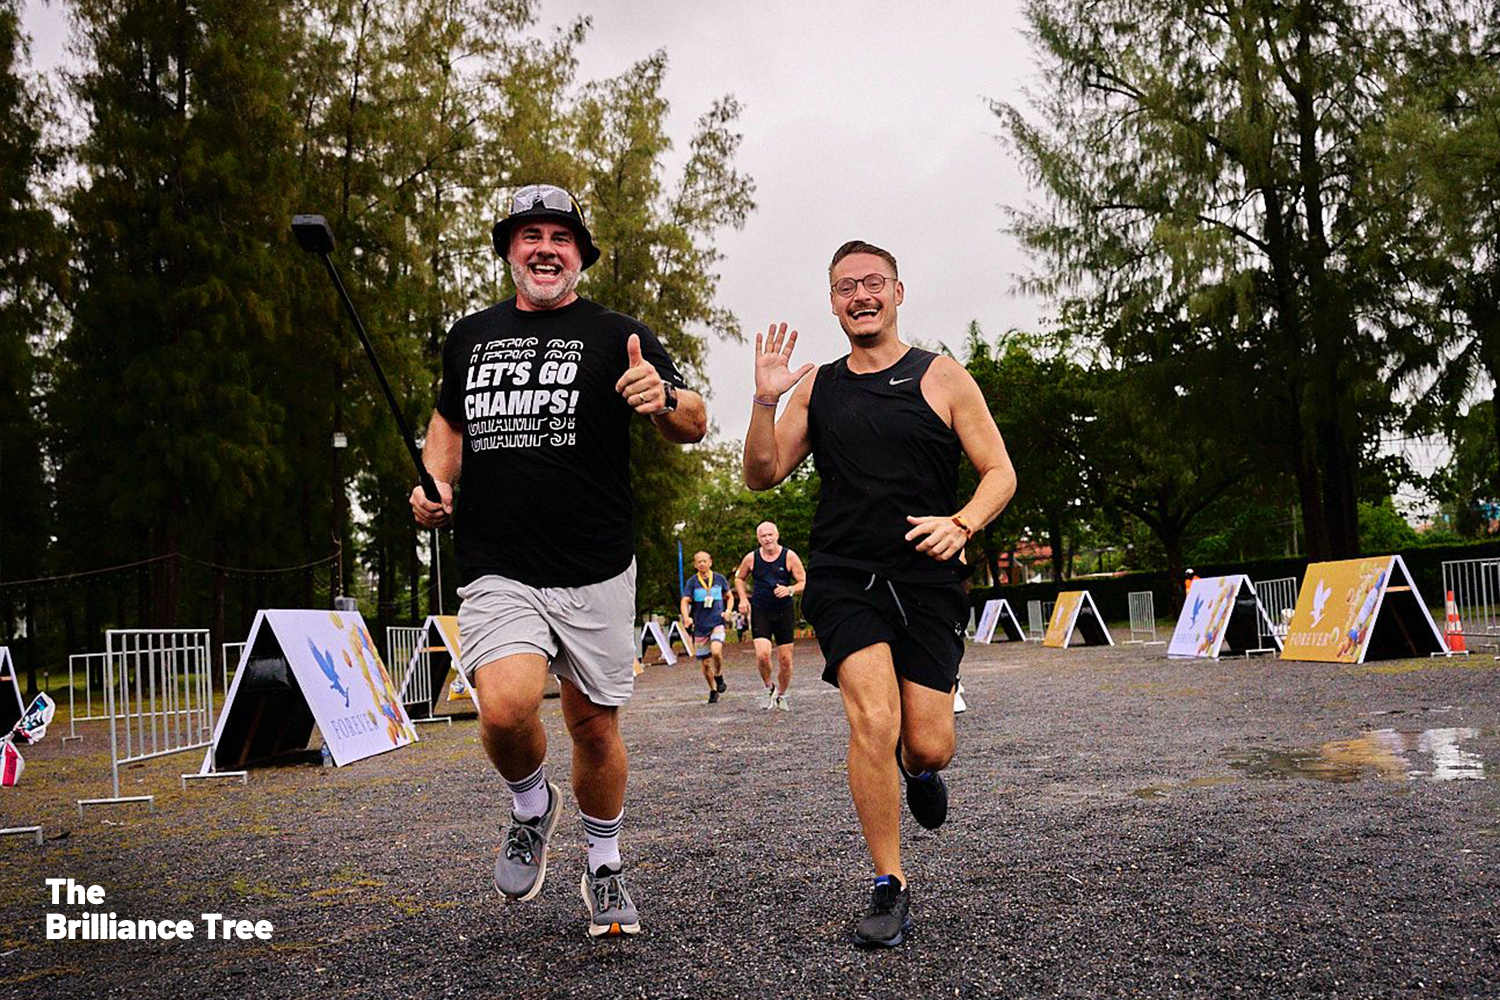
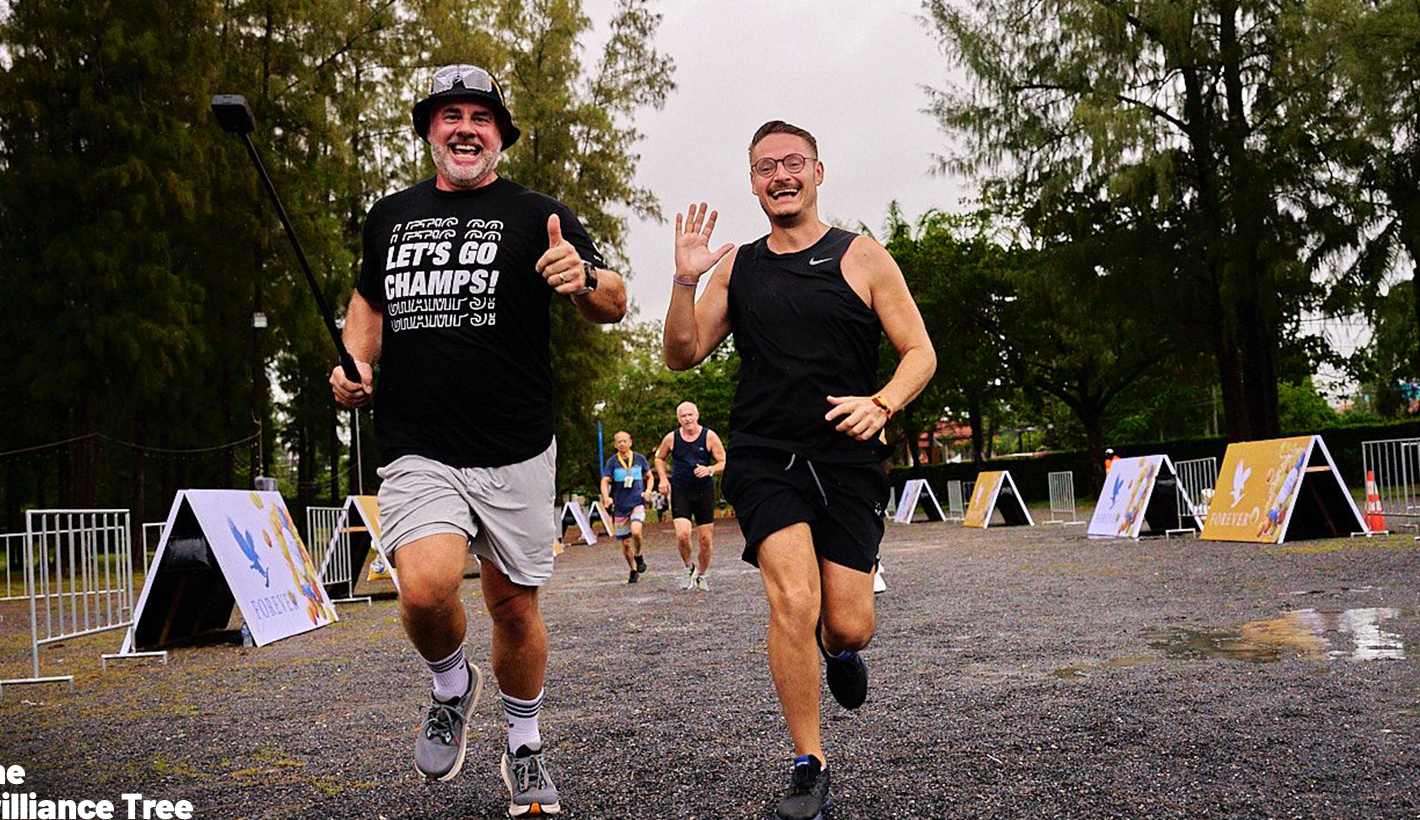
feat(hero): crop image to highlight Aidan + adjust focal point
- Removed ~13% dead sky/tree space from top of hero image
- Trimmed left margin (80px) to tighten composition
- objectPosition set to 62% center so Aidan (right-of-center) is prominent
- Cropped image: 1420×820 (was 1500×1000)

diff --git a/src/routes/index.tsx b/src/routes/index.tsx
@@ -57,8 +57,9 @@ function Dashboard() {
         <motion.div style={{ y: heroY, scale: heroScale }} className="absolute inset-0">
           <img
             src={HERO_IMG}
-            alt="Athletes in motion"
-            className="h-full w-full object-cover object-center"
+            alt="Aidan running with the community"
+            className="h-full w-full object-cover"
+            style={{ objectPosition: "62% center" }}
           />
           {/* Left-to-right gradient: text area is clean white, image bleeds to the right */}
           <div